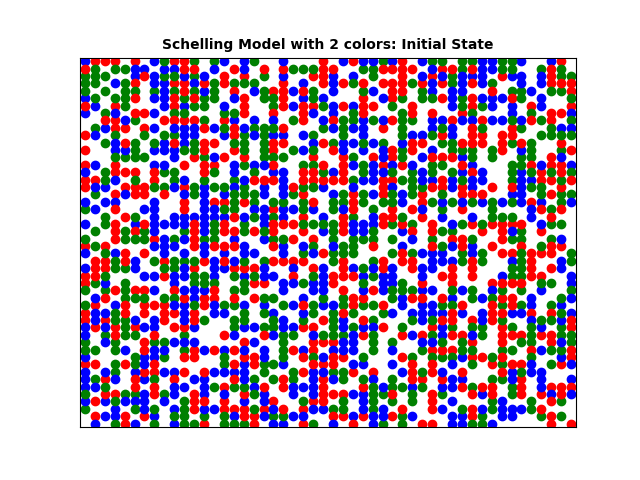
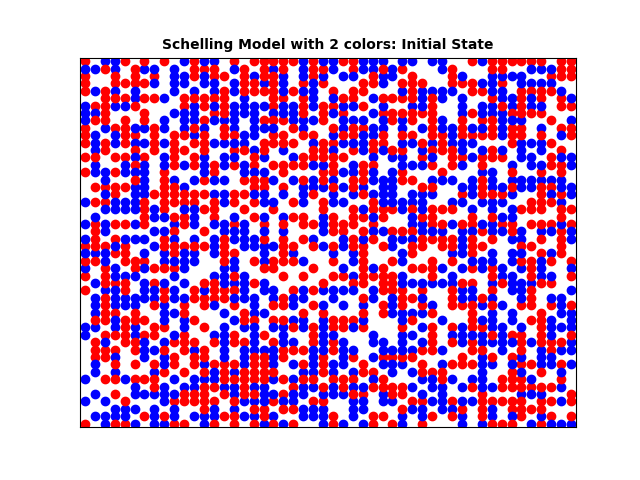
fixed plot titles

diff --git a/Plotting/agents/building_the_simulation.py b/Plotting/agents/building_the_simulation.py
@@ -198,28 +198,28 @@ def do_similarity():
 
 
 def do_simulation():
-    schelling_1 = Schelling(50, 50, 0.3, 0.8, 500, 2)
+    schelling_1 = Schelling(50, 50, 0.3, 0.3, 500, 2)
     schelling_1.populate()
 
-    # schelling_2 = Schelling(50, 50, 0.3, 0.5, 500, 2)
-    # schelling_2.populate()
-    #
-    # schelling_3 = Schelling(50, 50, 0.3, 0.8, 500, 2)
-    # schelling_3.populate()
+    schelling_2 = Schelling(50, 50, 0.3, 0.5, 500, 2)
+    schelling_2.populate()
 
-    # schelling_1.plot('Schelling Model with 2 colors: Initial State', 'schelling_2_initial.png')
+    schelling_3 = Schelling(50, 50, 0.3, 0.8, 500, 2)
+    schelling_3.populate()
+
+    schelling_1.plot('Schelling Model with 2 colors: Initial State', 'schelling_2_initial.png')
 
     schelling_1.update()
-    # schelling_2.update()
-    # schelling_3.update()
+    schelling_2.update()
+    schelling_3.update()
 
-    schelling_1.plot('Schelling Model with 2 colors: Final State with Similarity Threshold 80%',
+    schelling_1.plot('Schelling Model with 2 colors: Final State with Similarity Threshold 30%',
                      'schelling_2_30_final.png')
-    # schelling_2.plot('Schelling Model with 2 colors: Final State with Similarity Threshold 50%',
-    #                  'schelling_2_50_final.png')
-    # schelling_3.plot('Schelling Model with 2 colors: Final State with Similarity Threshold 80%',
-    #                  'schelling_2_80_final.png')
+    schelling_2.plot('Schelling Model with 2 colors: Final State with Similarity Threshold 50%',
+                     'schelling_2_50_final.png')
+    schelling_3.plot('Schelling Model with 2 colors: Final State with Similarity Threshold 80%',
+                     'schelling_2_80_final.png')
 
 if __name__ == '__main__':
-    # do_simulation()
+    do_simulation()
     do_similarity()
